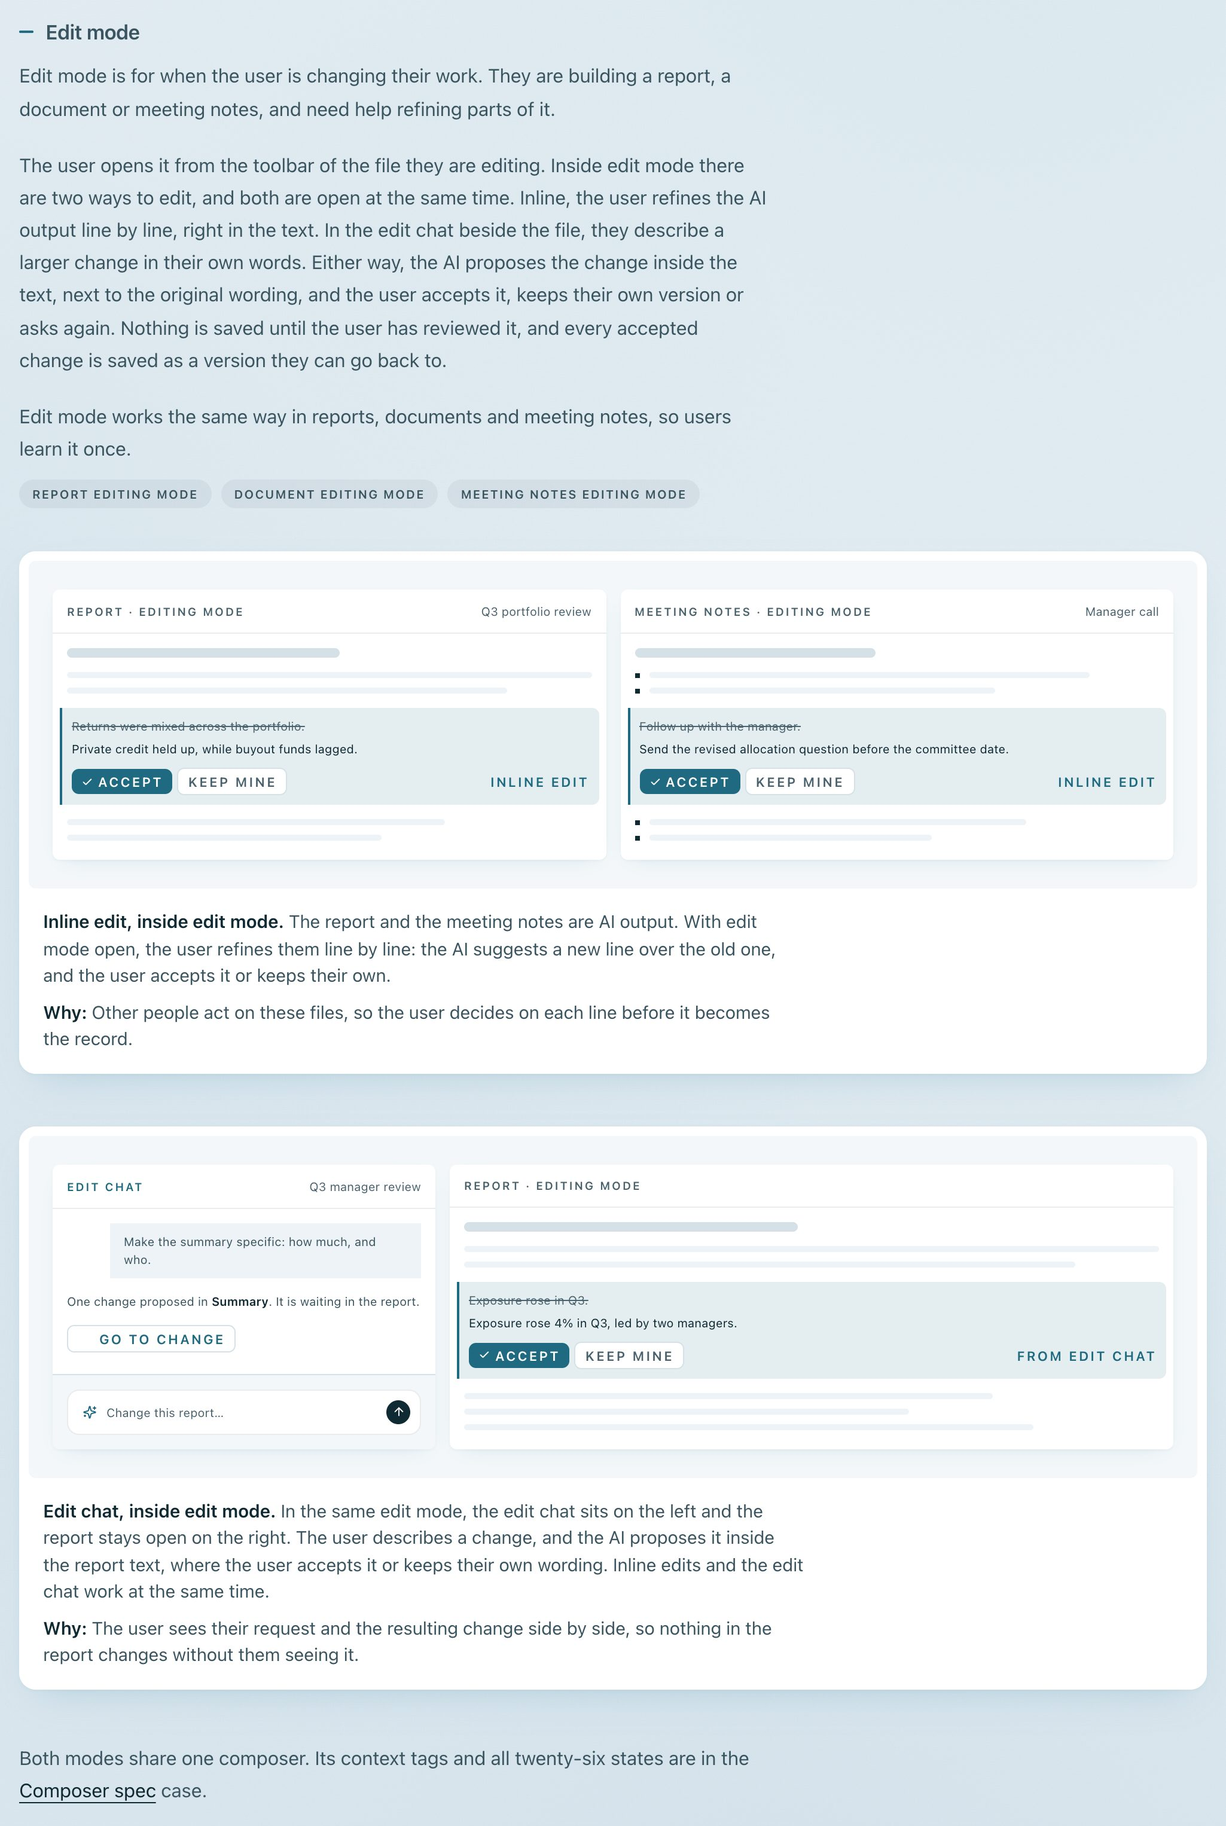
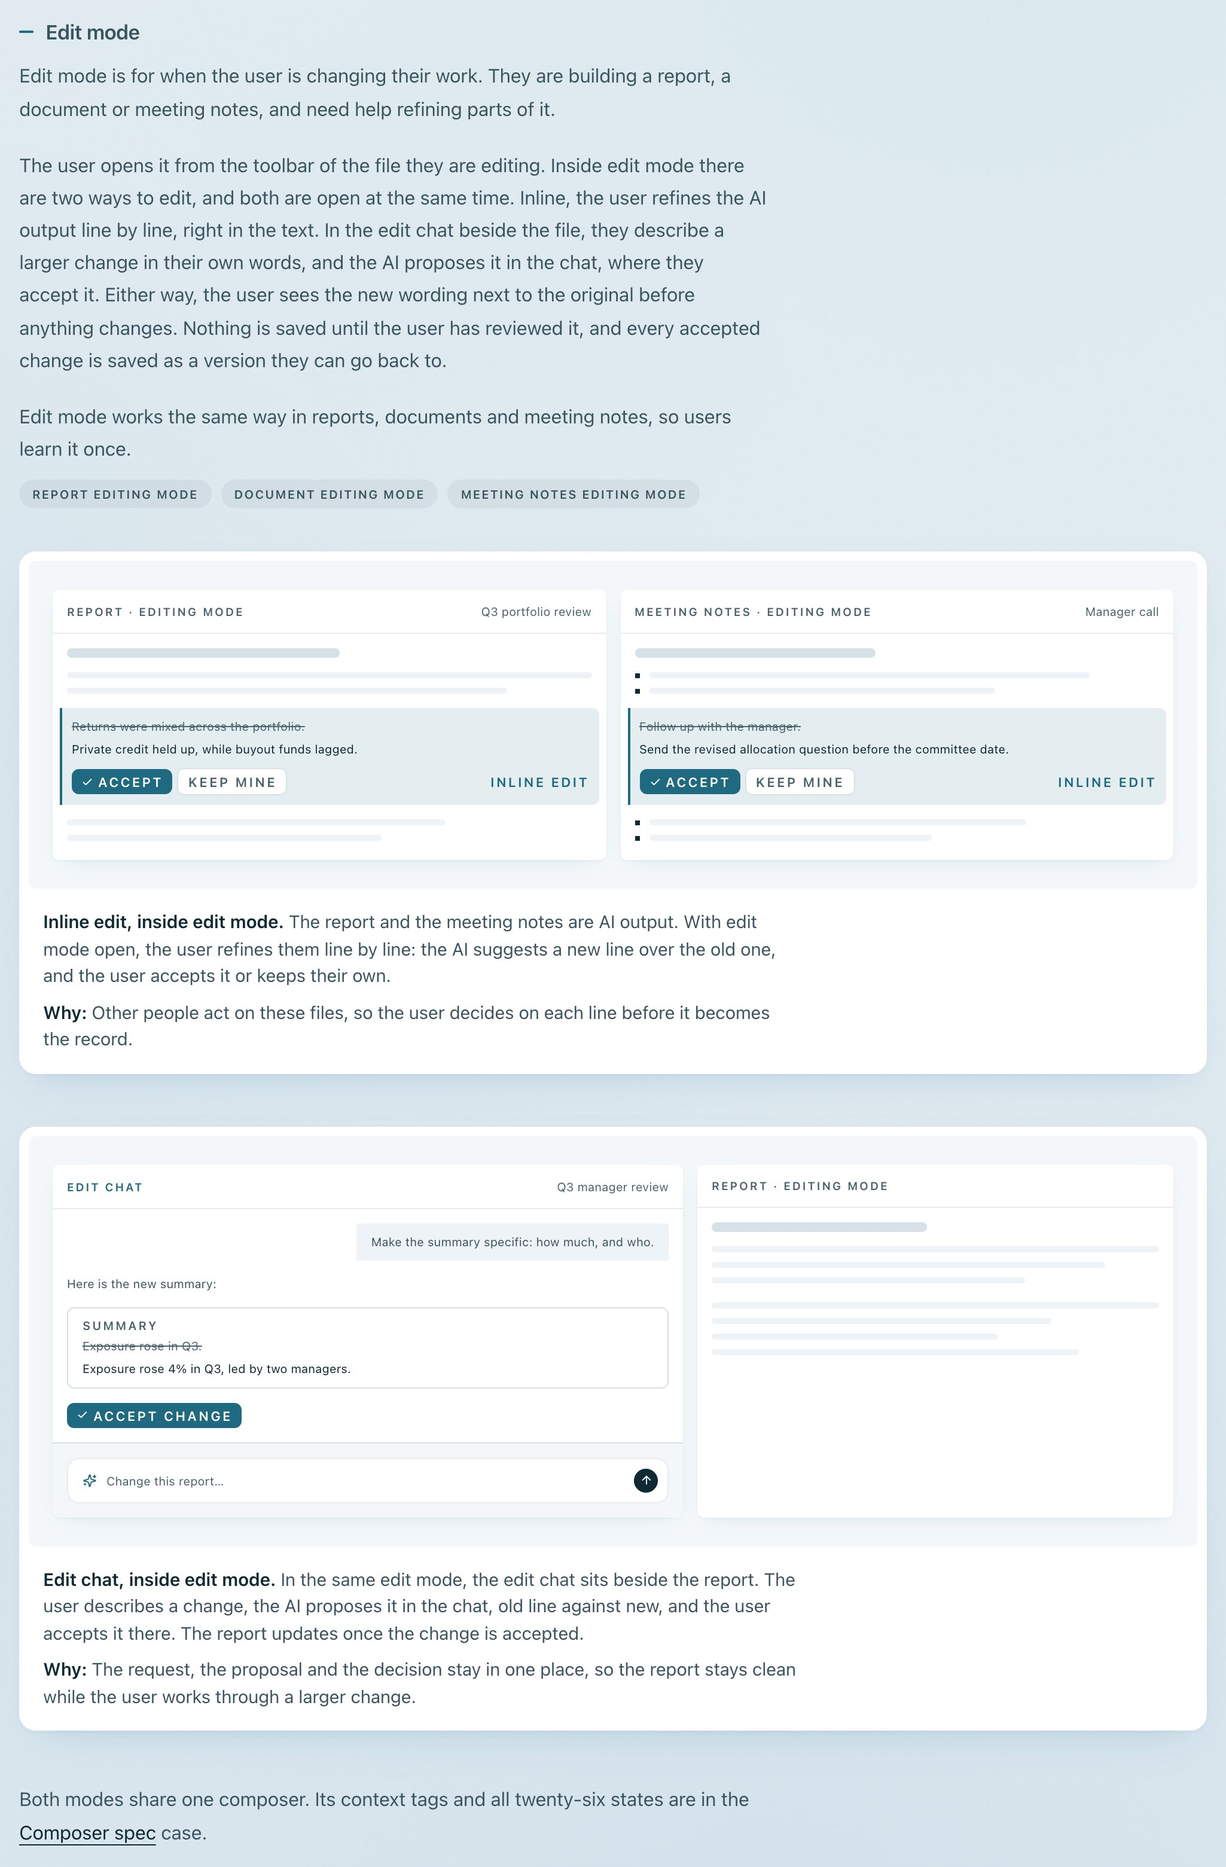
Round 5, AI surfaces: edit chat figure without inline; change proposed and accepted in the chat
Plain report beside the chat; the chat shows the proposed Summary and an
Accept change button. Captions and edit-mode paragraph rewritten (data-new-copy).
Verdict recorded in DECISIONS.md (2026-09-27).

diff --git a/ai-surfaces.html b/ai-surfaces.html
@@ -325,7 +325,7 @@
           </div>
           <div style="padding-top:var(--section-y)"><h3 class="subsection">Edit mode</h3>
           <p style="margin:0 0 var(--space-lg);max-width:var(--measure-prose);font-size:var(--font-size-md);line-height:var(--leading-body);color:var(--text-body);text-wrap:pretty">Edit mode is for when the user is changing their work. They are building a report, a document or meeting notes, and need help refining parts of it.</p>
-          <p data-new-copy="ai-surfaces-r5-edit-ways" style="margin:0 0 var(--space-lg);max-width:var(--measure-prose);font-size:var(--font-size-md);line-height:var(--leading-body);color:var(--text-body);text-wrap:pretty">The user opens it from the toolbar of the file they are editing. Inside edit mode there are two ways to edit, and both are open at the same time. Inline, the user refines the AI output line by line, right in the text. In the edit chat beside the file, they describe a larger change in their own words. Either way, the AI proposes the change inside the text, next to the original wording, and the user accepts it, keeps their own version or asks again. Nothing is saved until the user has reviewed it, and every accepted change is saved as a version they can go back to.</p>
+          <p data-new-copy="ai-surfaces-r5-edit-ways" style="margin:0 0 var(--space-lg);max-width:var(--measure-prose);font-size:var(--font-size-md);line-height:var(--leading-body);color:var(--text-body);text-wrap:pretty">The user opens it from the toolbar of the file they are editing. Inside edit mode there are two ways to edit, and both are open at the same time. Inline, the user refines the AI output line by line, right in the text. In the edit chat beside the file, they describe a larger change in their own words, and the AI proposes it in the chat, where they accept it. Either way, the user sees the new wording next to the original before anything changes. Nothing is saved until the user has reviewed it, and every accepted change is saved as a version they can go back to.</p>
           <p style="margin:0 0 var(--space-sm);max-width:var(--measure-prose);font-size:var(--font-size-md);line-height:var(--leading-body);color:var(--text-body);text-wrap:pretty">Edit mode works the same way in reports, documents and meeting notes, so users learn it once.</p>
           <div class="tags" data-pattern="term" style="margin:0 0 var(--space-fluid-l)"><span class="tag">Report editing mode</span><span class="tag">Document editing mode</span><span class="tag">Meeting notes editing mode</span></div>
           <div class="figure figure--col" style="margin:0 0 var(--space-fluid-xl)"><div><div style="padding:var(--space-xl) var(--space-fluid-s) var(--space-xl);background:var(--surface-page)">
@@ -350,25 +350,22 @@
     </div></div><!-- proposal: caption banner. One block under a figure: what it shows, then why. Replaces the caps title, caption line and Why line. --><div class="figure__caption" data-caption><p data-new-copy="ai-surfaces-r5-inline-caption"><strong>Inline edit, inside edit mode.</strong> The report and the meeting notes are AI output. With edit mode open, the user refines them line by line: the AI suggests a new line over the old one, and the user accepts it or keeps their own.</p><p data-new-copy="ai-surfaces-r5-inline-why"><strong>Why:</strong> Other people act on these files, so the user decides on each line before it becomes the record.</p></div></div>
           <div class="figure figure--col"><div><div style="padding:var(--space-xl) var(--space-fluid-s) var(--space-xl);background:var(--surface-page)">
       <div style="display:flex;flex-wrap:wrap;gap:var(--space-sm);align-items:stretch">
-        <div class="card" style="flex:1 1 200px;max-width:320px;min-width:0;box-shadow:var(--shadow-sm);display:flex;flex-direction:column;overflow:hidden">
+        <div class="card" style="flex:3 1 260px;min-width:0;box-shadow:var(--shadow-sm);display:flex;flex-direction:column;overflow:hidden">
           <div style="display:flex;justify-content:space-between;align-items:baseline;gap:var(--space-xs);padding:var(--space-sm) var(--space-sm);border-bottom:1px solid var(--border-emphatic)"><span style="font-size:var(--font-size-diagram);font-weight:600;letter-spacing:var(--tracking-eyebrow);text-transform:uppercase;color:var(--accent)">Edit chat</span><span style="font-size:var(--font-size-2xs);color:var(--text-muted);white-space:nowrap">Q3 manager review</span></div>
           <div style="padding:var(--space-sm);display:flex;flex-direction:column;gap:var(--space-sm);flex:1">
             <div style="align-self:flex-end;max-width:88%;background:var(--surface-hover);padding:var(--space-xs) var(--space-sm);font-size:var(--font-size-2xs);line-height:var(--leading-snug);color:var(--text-body)">Make the summary specific: how much, and who.</div>
-            <div style="font-size:var(--font-size-2xs);line-height:var(--leading-snug);color:var(--text-body)">One change proposed in <strong style="font-weight:600;color:var(--text-strong)">Summary</strong>. It is waiting in the report.</div>
-            <div style="display:inline-flex;align-self:flex-start;align-items:center;gap:var(--space-xs);border:1px solid var(--border);border-radius:var(--radius-sm);padding:var(--space-2xs) var(--space-xs);font-size:var(--font-size-eyebrow);font-weight:600;letter-spacing:var(--tracking-eyebrow);text-transform:uppercase;color:var(--accent)" data-mock=""><i data-lucide="arrow-right" style="width:10px;height:10px;display:block;flex:none;color:var(--accent)"></i>Go to change</div>
+            <div data-new-copy="ai-surfaces-r5-chat-mock" style="font-size:var(--font-size-2xs);line-height:var(--leading-snug);color:var(--text-body)">Here is the new summary:</div>
+            <div style="border:1px solid var(--border);border-radius:var(--radius-sm);padding:var(--space-xs) var(--space-sm);display:flex;flex-direction:column;gap:var(--space-2xs)" data-mock=""><span style="font-size:var(--font-size-2xs);font-weight:600;letter-spacing:var(--tracking-eyebrow);text-transform:uppercase;color:var(--text-muted)">Summary</span><p style="margin:0;font-size:var(--font-size-2xs);line-height:var(--leading-snug);color:var(--text-muted);text-decoration:line-through">Exposure rose in Q3.</p><p style="margin:0;font-size:var(--font-size-2xs);line-height:var(--leading-snug);color:var(--text-strong)">Exposure rose 4% in Q3, led by two managers.</p></div>
+            <span data-new-copy="ai-surfaces-r5-chat-accept" style="display:inline-flex;align-self:flex-start;align-items:center;gap:var(--space-2xs);font-size:var(--font-size-eyebrow);font-weight:600;letter-spacing:var(--tracking-eyebrow);text-transform:uppercase;color:var(--surface-card);background:var(--accent);border-radius:var(--radius-sm);padding:var(--space-2xs) var(--space-xs)" data-mock=""><i data-lucide="check" style="width:10px;height:10px;display:block;flex:none;color:var(--surface-card)"></i>Accept change</span>
           </div>
           <div style="border-top:1px solid var(--border);background:var(--surface-page);padding:var(--space-sm) var(--space-sm)"><div style="border:1px solid var(--border-emphatic);border-radius:var(--radius-md);background:var(--surface-card);padding:var(--space-xs) var(--space-xs) var(--space-xs) var(--space-sm);display:flex;align-items:center;gap:var(--space-xs)"><i data-lucide="sparkles" style="width:12px;height:12px;display:block;flex:none;color:var(--accent)"></i><span style="flex:1;min-width:0;font-size:var(--font-size-2xs);color:var(--text-muted);white-space:nowrap;overflow:hidden;text-overflow:ellipsis">Change this report…</span><span style="flex:none;width:20px;height:20px;background:var(--surface-inverse);border-radius:var(--radius-md);display:flex;align-items:center;justify-content:center"><i data-lucide="arrow-up" style="width:11px;height:11px;display:block;flex:none;color:var(--surface-card)"></i></span></div></div>
         </div>
-        <div class="card" style="flex:2 1 320px;min-width:0;box-shadow:var(--shadow-sm);display:flex;flex-direction:column;overflow:hidden">
+        <div class="card" style="flex:2 1 220px;min-width:0;box-shadow:var(--shadow-sm);display:flex;flex-direction:column;overflow:hidden">
           <div style="display:flex;justify-content:space-between;align-items:baseline;gap:var(--space-xs);padding:var(--space-sm) var(--space-sm);border-bottom:1px solid var(--border-emphatic)"><span style="font-size:var(--font-size-diagram);font-weight:600;letter-spacing:var(--tracking-eyebrow);text-transform:uppercase;color:var(--text-muted)">Report · Editing mode</span></div>
-          <div style="padding:var(--space-sm) var(--space-sm) var(--space-md);display:flex;flex-direction:column;gap:var(--space-xs);flex:1"><div class="sk-d" style="width:48%;height:8px;margin-bottom:var(--space-2xs)"></div><div class="sk" style="height:5px"></div><div class="sk" style="width:88%;height:5px"></div><div style="margin:var(--space-2xs) -6px;padding:var(--space-xs) var(--space-xs) var(--space-xs);background:var(--surface-accent-tint);border-left:2px solid var(--accent);border-radius:0 var(--radius-sm) var(--radius-sm) 0">
-              <p style="margin:0 0 var(--space-2xs);font-size:var(--font-size-2xs);line-height:var(--leading-snug);color:var(--text-muted);text-decoration:line-through">Exposure rose in Q3.</p>
-              <p style="margin:0 0 var(--space-xs);font-size:var(--font-size-2xs);line-height:var(--leading-snug);color:var(--text-strong)">Exposure rose 4% in Q3, led by two managers.</p>
-              <div style="display:flex;gap:var(--space-2xs);flex-wrap:wrap;align-items:center"><span style="display:inline-flex;align-items:center;gap:var(--space-2xs);font-size:var(--font-size-eyebrow);font-weight:600;letter-spacing:var(--tracking-eyebrow);text-transform:uppercase;color:var(--surface-card);background:var(--accent);border-radius:var(--radius-sm);padding:var(--space-2xs) var(--space-xs)" data-mock=""><i data-lucide="check" style="width:10px;height:10px;display:block;flex:none;color:var(--surface-card)"></i>Accept</span><span style="font-size:var(--font-size-eyebrow);font-weight:600;letter-spacing:var(--tracking-eyebrow);text-transform:uppercase;color:var(--text-muted);background:var(--surface-card);border:1px solid var(--border);border-radius:var(--radius-sm);padding:var(--space-2xs) var(--space-xs)" data-mock="">Keep mine</span><span style="margin-left:auto;font-size:var(--font-size-eyebrow);font-weight:600;letter-spacing:var(--tracking-eyebrow);text-transform:uppercase;color:var(--accent)" data-mock="">From edit chat</span></div>
-            </div><div class="sk" style="width:76%;height:5px"></div><div class="sk" style="width:64%;height:5px"></div><div class="sk" style="width:82%;height:5px"></div></div>
+          <div style="padding:var(--space-sm) var(--space-sm) var(--space-md);display:flex;flex-direction:column;gap:var(--space-xs);flex:1"><div class="sk-d" style="width:48%;height:8px;margin-bottom:var(--space-2xs)"></div><div class="sk" style="height:5px"></div><div class="sk" style="width:88%;height:5px"></div><div class="sk" style="width:70%;height:5px;margin-bottom:var(--space-xs)"></div><div class="sk" style="height:5px"></div><div class="sk" style="width:76%;height:5px"></div><div class="sk" style="width:64%;height:5px"></div><div class="sk" style="width:82%;height:5px"></div></div>
         </div>
       </div>
-    </div></div><!-- proposal: caption banner. One block under a figure: what it shows, then why. Replaces the caps title, caption line and Why line. --><div class="figure__caption" data-caption><p data-new-copy="ai-surfaces-r5-chat-caption"><strong>Edit chat, inside edit mode.</strong> In the same edit mode, the edit chat sits on the left and the report stays open on the right. The user describes a change, and the AI proposes it inside the report text, where the user accepts it or keeps their own wording. Inline edits and the edit chat work at the same time.</p><p><strong>Why:</strong> The user sees their request and the resulting change side by side, so nothing in the report changes without them seeing it.</p></div></div>
+    </div></div><!-- proposal: caption banner. One block under a figure: what it shows, then why. Replaces the caps title, caption line and Why line. --><div class="figure__caption" data-caption><p data-new-copy="ai-surfaces-r5-chat-caption"><strong>Edit chat, inside edit mode.</strong> In the same edit mode, the edit chat sits beside the report. The user describes a change, the AI proposes it in the chat, old line against new, and the user accepts it there. The report updates once the change is accepted.</p><p data-new-copy="ai-surfaces-r5-chat-why"><strong>Why:</strong> The request, the proposal and the decision stay in one place, so the report stays clean while the user works through a larger change.</p></div></div>
           
           <p style="margin:var(--space-fluid-xl) 0 0;max-width:var(--measure-prose);font-size:var(--font-size-md);line-height:var(--leading-body);color:var(--text-body);text-wrap:pretty">Both modes share one composer. Its context tags and all twenty-six states are in the <a href="composer-spec.html">Composer spec</a> case.</p>
           </div>

diff --git a/_review/round-5-ai.html b/_review/round-5-ai.html
@@ -29,17 +29,21 @@ del{color:var(--muted)}
 <h2>Phone, 375px</h2>
 <div class="ba phone"><div><span class="k">Before</span><img src="round-5-ai/before-edit-mode-375.jpg" alt="Edit mode before, phone"></div><div><span class="k k--after">After</span><img src="round-5-ai/after-edit-mode-375.jpg" alt="Edit mode after, phone: panels stack"></div></div>
 
+<h2>Update: edit chat figure (your verdict, 2026-09-27)</h2>
+<p>"When in chat, we should not have the inline." The report in the chat figure is now a plain report (no struck line, no Accept / Keep mine, no "From edit chat" tag) and narrower, so the chat is the focus. The chat shows the request, the AI's proposed Summary (old line struck, new line) and one "Accept change" button. "One change proposed in Summary. It is waiting in the report" and "Go to change" are gone. The screenshots above show this version. Recorded in DECISIONS.md.</p>
 <h2>New copy for approval</h2>
 <p>Each line carries <code>data-new-copy</code> on the page until you approve it.</p>
-<div class="q"><p><code>ai-surfaces-r5-edit-ways</code> (second paragraph of Edit mode; first and last sentences unchanged)</p><p><del>An edit chat opens beside the file, where they describe the change they want. The AI proposes the change inside the text…</del></p><p>Inside edit mode there are two ways to edit, and both are open at the same time. Inline, the user refines the AI output line by line, right in the text. In the edit chat beside the file, they describe a larger change in their own words. Either way, the AI proposes the change inside the text, next to the original wording, and the user accepts it, keeps their own version or asks again.</p></div>
+<div class="q"><p><code>ai-surfaces-r5-edit-ways</code> (second paragraph of Edit mode; first and last sentences unchanged)</p><p><del>An edit chat opens beside the file, where they describe the change they want. The AI proposes the change inside the text, next to the original wording, and the user accepts it, keeps their own version or asks again.</del></p><p>Inside edit mode there are two ways to edit, and both are open at the same time. Inline, the user refines the AI output line by line, right in the text. In the edit chat beside the file, they describe a larger change in their own words, and the AI proposes it in the chat, where they accept it. Either way, the user sees the new wording next to the original before anything changes.</p></div>
 <div class="q"><p><code>ai-surfaces-r5-inline-caption</code></p><p><strong>Inline edit, inside edit mode.</strong> The report and the meeting notes are AI output. With edit mode open, the user refines them line by line: the AI suggests a new line over the old one, and the user accepts it or keeps their own.</p></div>
 <div class="q"><p><code>ai-surfaces-r5-inline-why</code></p><p><strong>Why:</strong> Other people act on these files, so the user decides on each line before it becomes the record.</p></div>
-<div class="q"><p><code>ai-surfaces-r5-chat-caption</code> (replaces "Report editing mode. When the user is editing a report, the edit chat sits…")</p><p><strong>Edit chat, inside edit mode.</strong> In the same edit mode, the edit chat sits on the left and the report stays open on the right. The user describes a change, and the AI proposes it inside the report text, where the user accepts it or keeps their own wording. Inline edits and the edit chat work at the same time.</p></div>
+<div class="q"><p><code>ai-surfaces-r5-chat-caption</code> (replaces "Report editing mode. When the user is editing a report…")</p><p><strong>Edit chat, inside edit mode.</strong> In the same edit mode, the edit chat sits beside the report. The user describes a change, the AI proposes it in the chat, old line against new, and the user accepts it there. The report updates once the change is accepted.</p></div>
+<div class="q"><p><code>ai-surfaces-r5-chat-why</code> (replaces "The user sees their request and the resulting change side by side…")</p><p><strong>Why:</strong> The request, the proposal and the decision stay in one place, so the report stays clean while the user works through a larger change.</p></div>
+<div class="q"><p><code>ai-surfaces-r5-chat-mock</code>, <code>ai-surfaces-r5-chat-accept</code> (chat mockup)</p><p>"Here is the new summary:" · Summary: <del>Exposure rose in Q3.</del> → Exposure rose 4% in Q3, led by two managers. (both lines already on the page) · button "Accept change"</p></div>
 <div class="q"><p><code>ai-surfaces-r5-inline-mock</code> (mockup text in the new figure)</p><p>Report · Editing mode, "Q3 portfolio review": <del>Returns were mixed across the portfolio.</del> → Private credit held up, while buyout funds lagged.</p><p>Meeting notes · Editing mode, "Manager call": <del>Follow up with the manager.</del> → Send the revised allocation question before the committee date. (reused from the figure removed in round 3)</p><p>Tag on each suggestion: "Inline edit" (the chat figure keeps "From edit chat", so the two sources read apart).</p></div>
 
 <h2>Questions</h2>
-<div class="q"><p>1. The inline suggestions are tagged "Inline edit", the chat one "From edit chat". Keep that difference, or tag all three "From edit chat" as the figure had it? Recommendation: keep the difference, it is what tells the two ways apart.</p></div>
-<div class="q"><p>2. On phones the chat caption still says "on the left / on the right" while the panels stack (as before this round). Leave, or say "beside"? Recommendation: "beside".</p></div>
+<div class="q"><p>1. The inline suggestions are tagged "Inline edit"; the chat figure no longer shows an inline suggestion. Keep the tag? Recommendation: keep it.</p></div>
+<div class="q"><p>2. Only "Accept change" in the chat, as you named it. Add a secondary "Keep mine" there too? Recommendation: no, the user can simply ask again.</p></div>
 
 <h2>Check</h2>
 <p><code>python3 harness/check.py ai-surfaces.html</code>: PASS at 1400px and 375px. One warning on this page, FLW-02 strike-through, which the rule excepts for product mockups showing a deletion.</p>

diff --git a/DECISIONS.md b/DECISIONS.md
@@ -4,6 +4,9 @@ Nayara's verdicts, newest first. Every verdict lands here the same day it is giv
 
 Format: date · decision · what it replaces or rules out · enforced by.
 
+## 2026-09-27
+- AI surfaces, edit chat figure: in the chat there is no inline edit. The report is a plain report and the focus is the chat; the AI proposes the change in the chat (old line to new) and the user accepts it there with an "Accept change" button. Inline edit stays its own figure (report and meeting notes, tag "Inline edit"), both inside edit mode at the same time. · the inline suggestion inside the chat figure, "One change proposed in Summary. It is waiting in the report", "Go to change" · by eye
+
 ## 2026-09-26 (evening)
 - Content round 1 approved as a whole and deployed ("approve all and deploy now"): the 234 rewritten sentences on the six cases and About, About's calls to action, Tools & range as columns, the label spacing. The fact questions in the content report are fixed in a next small round. · the old wording · content-clarity skill
 
